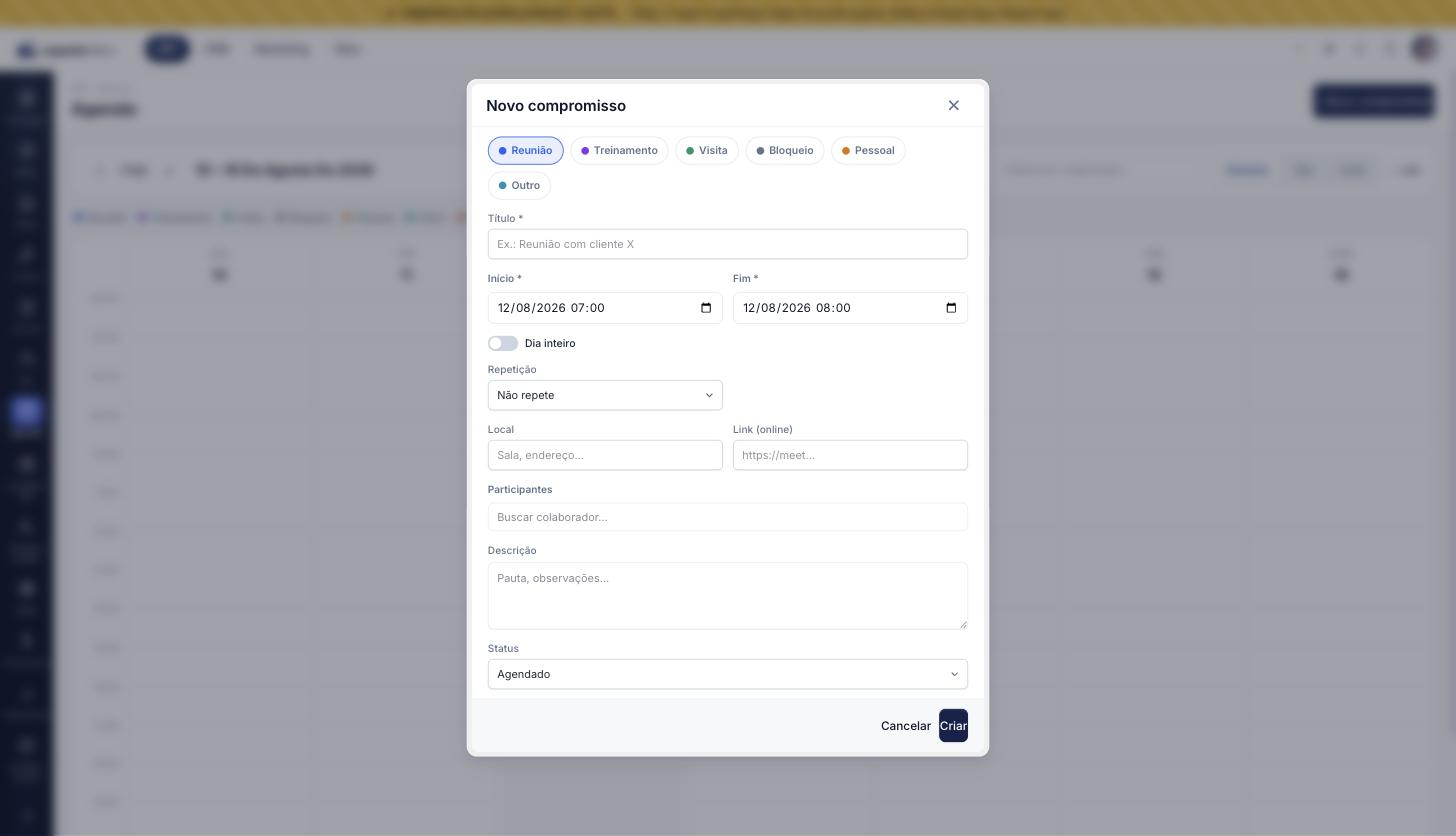
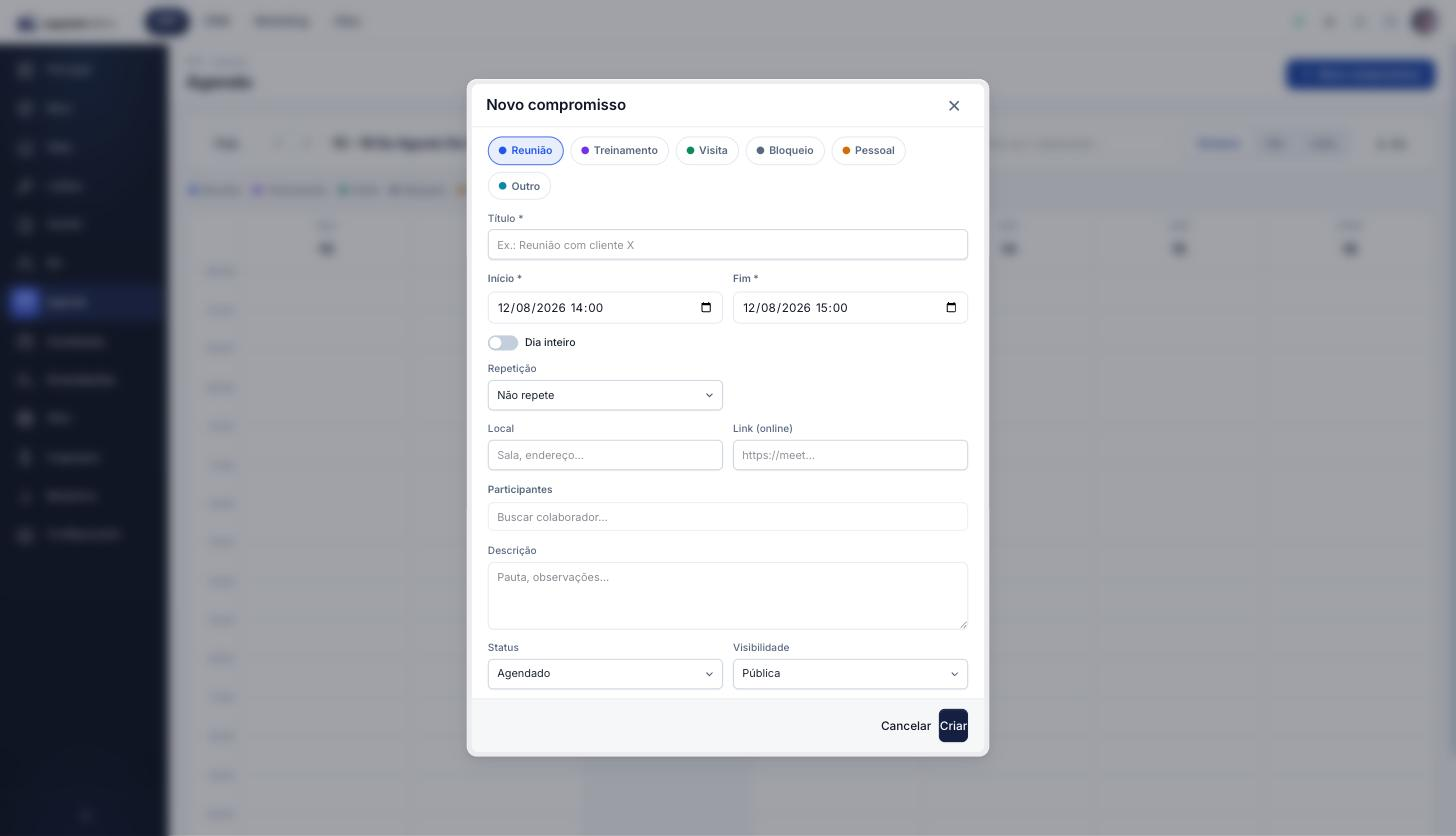
docs(agenda): visibilidade pública/privada + toolbar nova (prints)

diff --git a/docs/erp/agenda/agenda-calendario.md b/docs/erp/agenda/agenda-calendario.md
@@ -25,8 +25,9 @@ No topo fica a barra de navegação; logo abaixo, a legenda de cores; e ocupando
 
 | Elemento | O que faz |
 |---|---|
-| **‹ Hoje ›** | Volta/avança a semana (ou o dia) e o botão **Hoje** retorna para a data atual |
-| Período | Mostra o intervalo em exibição (ex.: *10 – 16 de agosto de 2026*) |
+| **Hoje** | Retorna para a data atual |
+| **‹ ›** | Volta/avança a semana (ou o dia) |
+| Período | Mostra o intervalo em exibição (ex.: *10 – 16 de agosto de 2026*), logo após as setas |
 | **Filtrar por colaborador** | Mostra apenas os compromissos de uma pessoa |
 | **Semana / Dia / Lista** | Alterna o modo de visualização |
 | **⤓ .ics** | Exporta a agenda para importar no Google Agenda, Outlook ou Apple |
@@ -58,7 +59,8 @@ Cada **tipo** de compromisso tem uma cor (Reunião, Treinamento, Visita, Bloquei
 6. Opcionalmente preencha **Local** e **Link (online)**.
 7. Adicione **Participantes**: digite o nome do colaborador e selecione na lista. Cada participante entra como *Convidado*.
 8. Use **Descrição** para a pauta.
-9. Clique em **Criar**.
+9. Escolha a **Visibilidade** — *Pública* ou *Privada* (veja [Quem enxerga o compromisso](#quem-enxerga-o-compromisso-pública-ou-privada)).
+10. Clique em **Criar**.
 
 ![Novo compromisso](/img/manual/erp/agenda-novo.jpg)
 
@@ -69,6 +71,21 @@ Clique sobre o compromisso no calendário. A janela abre com todos os dados. Aju
 ### Excluir
 
 Abra o compromisso e clique em **Remover**. Se o compromisso **se repete**, a exclusão remove a série inteira.
+
+## Quem enxerga o compromisso (Pública ou Privada)
+
+Todo compromisso tem uma **Visibilidade**, escolhida na criação (e alterável ao editar):
+
+| Visibilidade | Quem vê os detalhes | O que os demais veem |
+|---|---|---|
+| **Pública** *(padrão)* | Todos que têm acesso à Agenda | O compromisso completo: título, local, link, participantes |
+| **Privada** | Apenas o **organizador** e os **participantes** | Apenas um bloco **"Ocupado"** no horário — sem título, local, link, descrição ou participantes |
+
+Ou seja, um compromisso **privado** ainda **tranca a agenda** da pessoa (os outros sabem que ela está ocupada e não a agendam por cima), mas o **conteúdo fica reservado** para quem participa. Use *Privada* para reuniões sensíveis ou compromissos pessoais.
+
+:::info Vale também no aviso de conflito
+Quando alguém tenta agendar em cima de um compromisso **privado** de outra pessoa, o aviso de conflito mostra apenas **"Ocupado"** — nunca o título do compromisso reservado.
+:::
 
 ## Compromissos que se repetem
 
@@ -121,6 +138,7 @@ Clique em **⤓ .ics** na barra superior. Um arquivo `.ics` é baixado com seus 
 - **Título, Início e Fim são obrigatórios.** O fim não pode ser antes do início.
 - **Ausências do RH aparecem automaticamente** na agenda (férias, licença, afastamento e falta), em vermelho, e são geridas no módulo **RH → Eventos** — não se editam pela Agenda.
 - **Editar um compromisso que se repete altera a série toda.** A recorrência termina na data informada em *Repetir até*.
+- **Compromisso privado tranca a agenda, mas esconde os detalhes.** Quem não é organizador nem participante vê só *"Ocupado"* no horário — inclusive no aviso de conflito.
 
 ## Erros comuns
 
